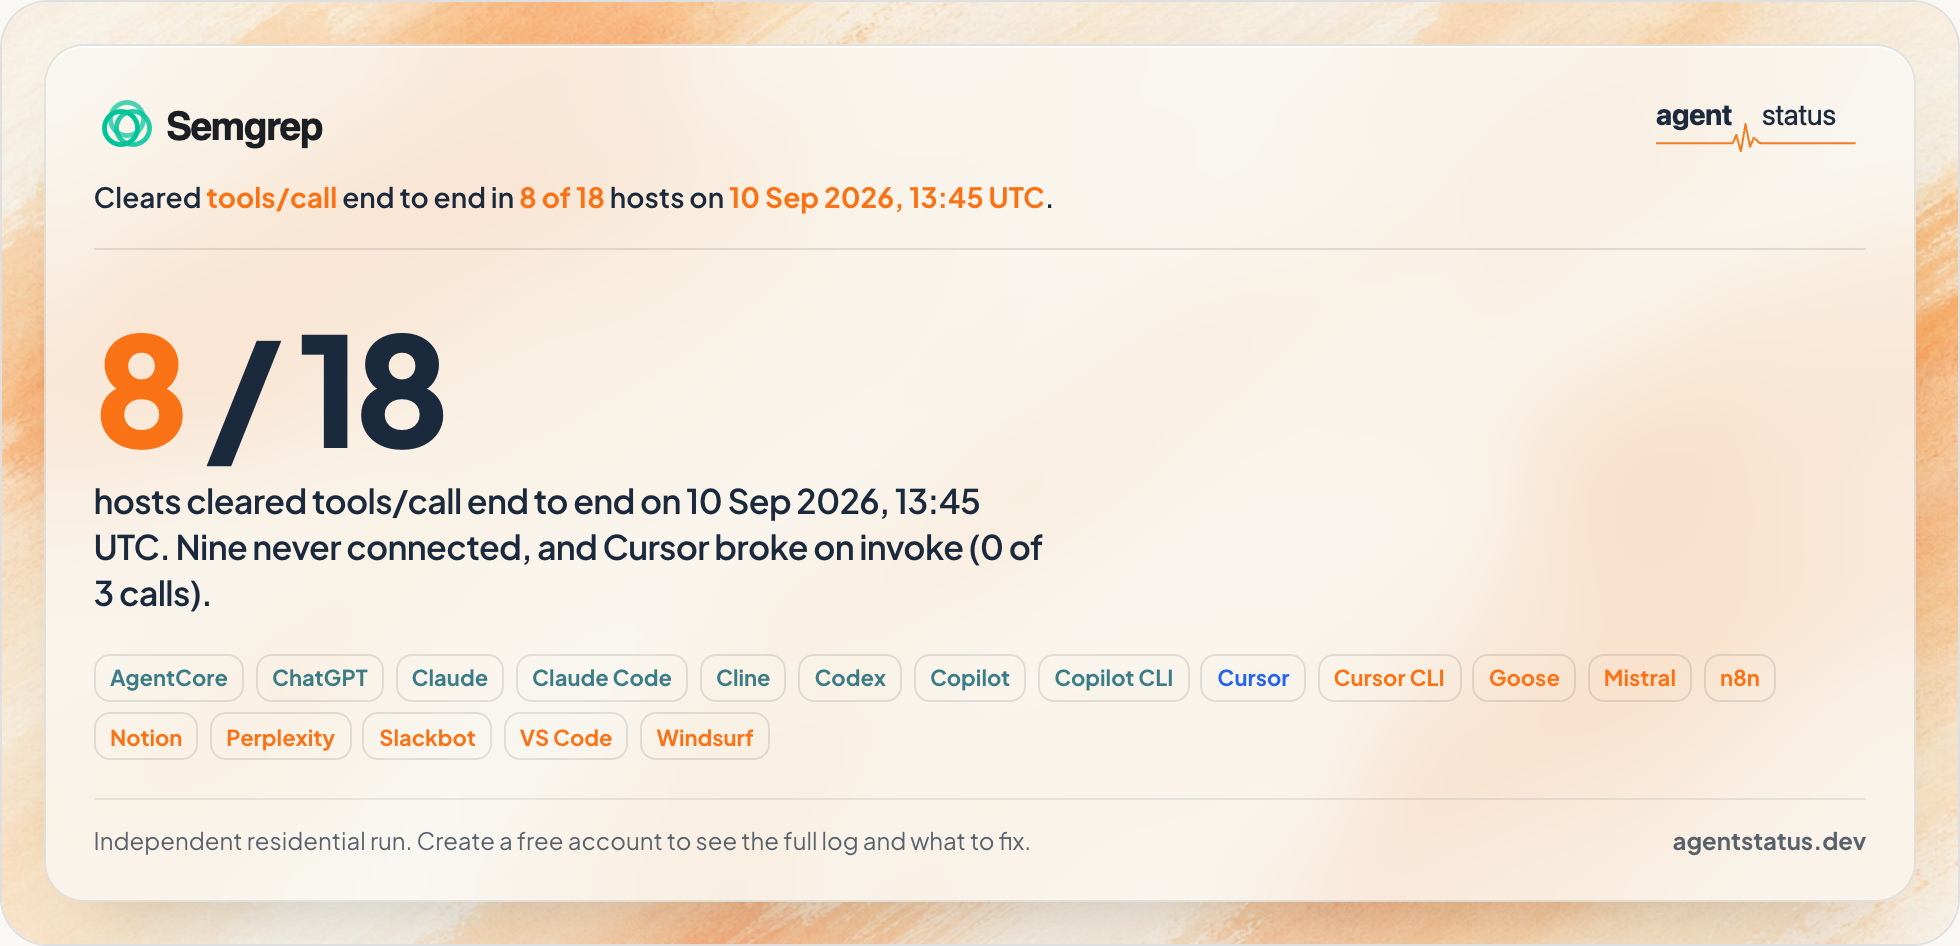
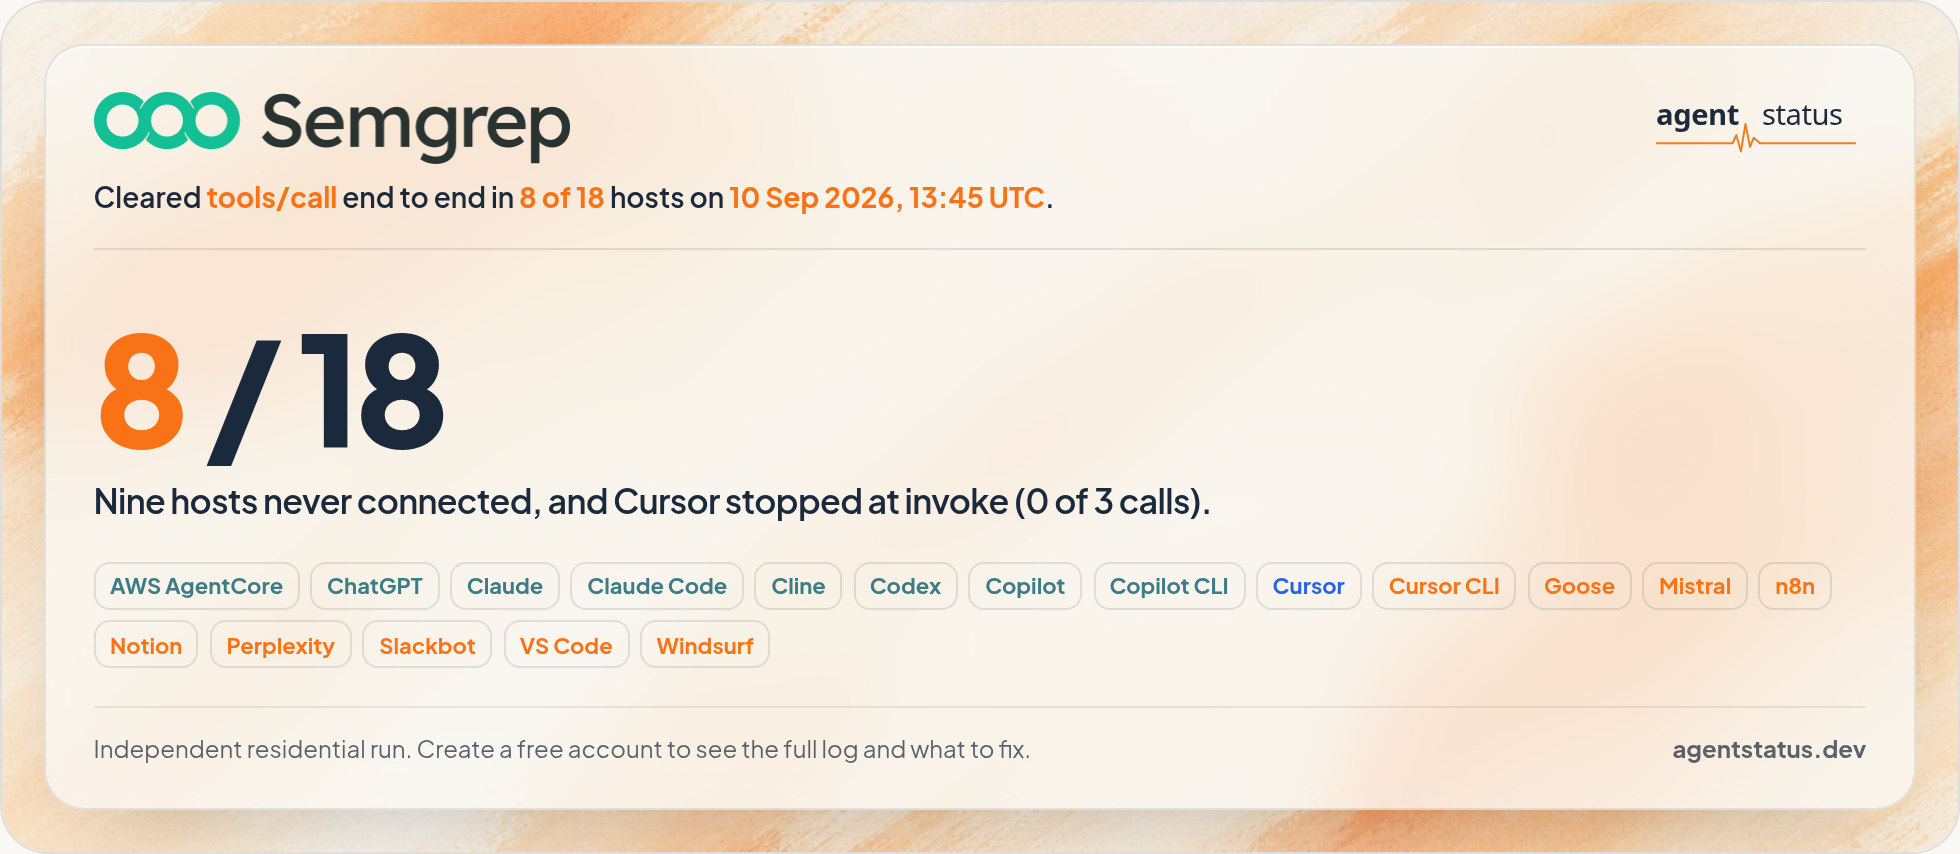
Use official Semgrep lockups on the MCP Index scorecard.
Replace the faked wordmark (crop leftover, typed letters) with Semgrep's light and dark brand SVGs, align host names with the dashboard (AWS AgentCore), and tighten Cursor evidence plus poster copy. Re-export matrix/threshold/poster PNGs. Detect Linux Chrome in export-batch.

diff --git a/mcp-index/semgrep-scorecard.html b/mcp-index/semgrep-scorecard.html
@@ -180,7 +180,7 @@
       letter-spacing: -0.045em; line-height: 1; margin: 0.55rem 0 0.5rem;
     }
     .poster__stat span { color: hsl(var(--logo-orange)); }
-    .poster__line { font-size: 17px; font-weight: 600; line-height: 1.35; max-width: 30rem; letter-spacing: -0.02em; }
+    .poster__line { font-size: 17px; font-weight: 600; line-height: 1.35; max-width: 38rem; letter-spacing: -0.02em; }
     .poster__hosts { display: flex; flex-wrap: wrap; gap: 0.35rem; margin-top: 1.15rem; }
 
     .evidence {
@@ -274,7 +274,7 @@
         <section class="panel" id="panel-poster">
           <div class="poster">
             <p class="poster__stat"><span>8</span> / 18</p>
-            <p class="poster__line">hosts cleared tools/call end to end on 10 Sep 2026, 13:45 UTC. Nine never connected, and Cursor broke on invoke (0 of 3 calls).</p>
+            <p class="poster__line">Nine hosts never connected, and Cursor stopped at invoke (0 of 3 calls).</p>
             <div class="poster__hosts" id="poster-hosts"></div>
           </div>
         </section>
@@ -283,11 +283,15 @@
           <h2>Evidence · one host sample (Cursor)</h2>
           <dl>
             <dt>Connect</dt>
-            <dd><code>Reached · session started</code></dd>
+            <dd><code>Reached</code></dd>
+            <dt>Starts up</dt>
+            <dd><code>Started</code></dd>
             <dt>Find tools</dt>
             <dd><code>7 tools listed</code></dd>
             <dt>Calls them</dt>
-            <dd><code>0 of 3 · Can't call</code></dd>
+            <dd><code>0 of 3</code></dd>
+            <dt>Answers work</dt>
+            <dd><code>Not reached</code></dd>
             <dt>Endpoint</dt>
             <dd><code>https://mcp.semgrep.ai/mcp</code></dd>
           </dl>
@@ -308,7 +312,7 @@
 
   <script>
     const hosts = [
-      { name: "AgentCore", status: "ok" },
+      { name: "AWS AgentCore", status: "ok" },
       { name: "ChatGPT", status: "ok" },
       { name: "Claude", status: "ok" },
       { name: "Claude Code", status: "ok" },
